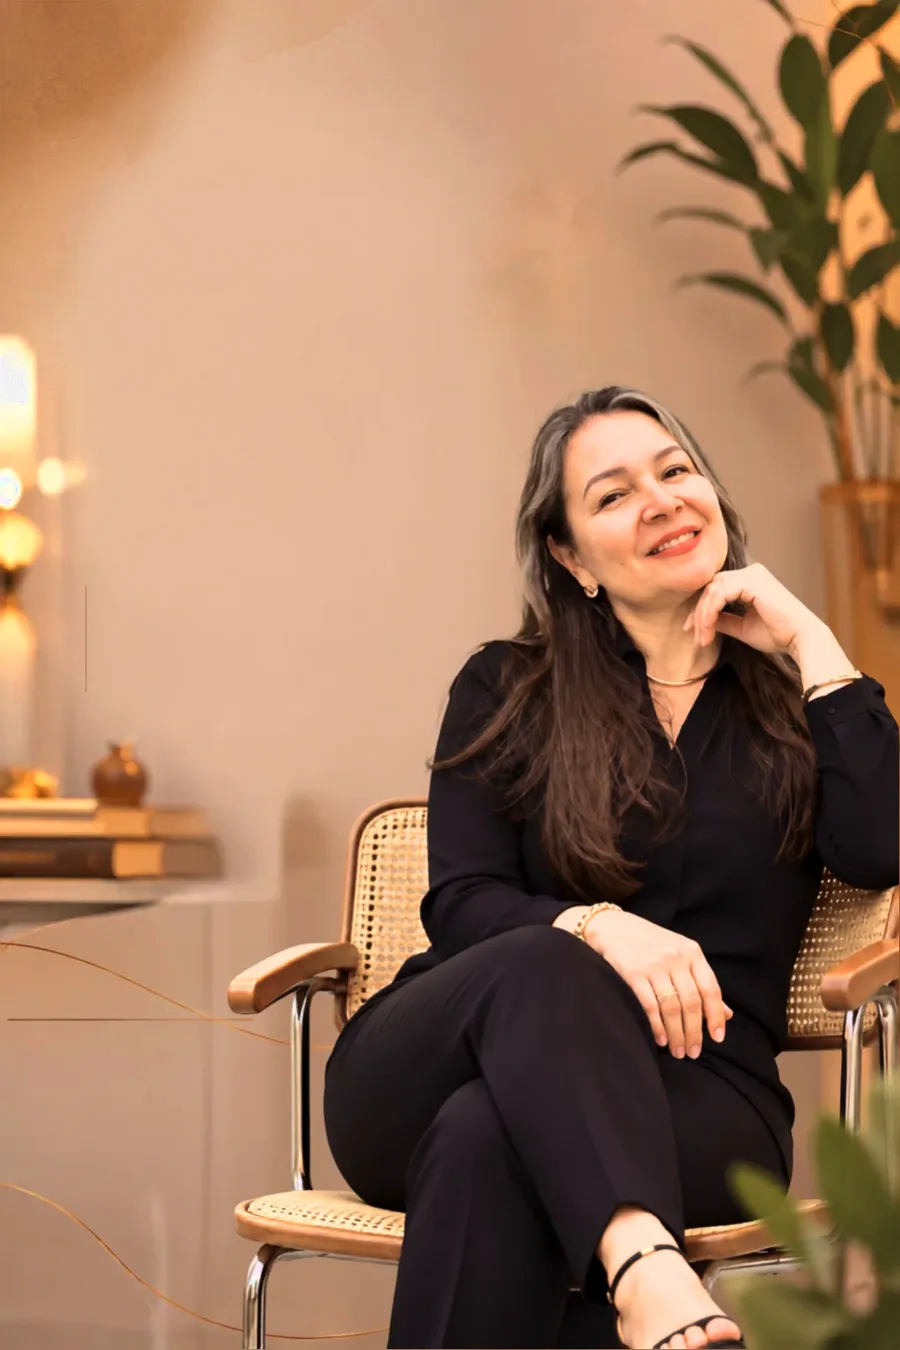
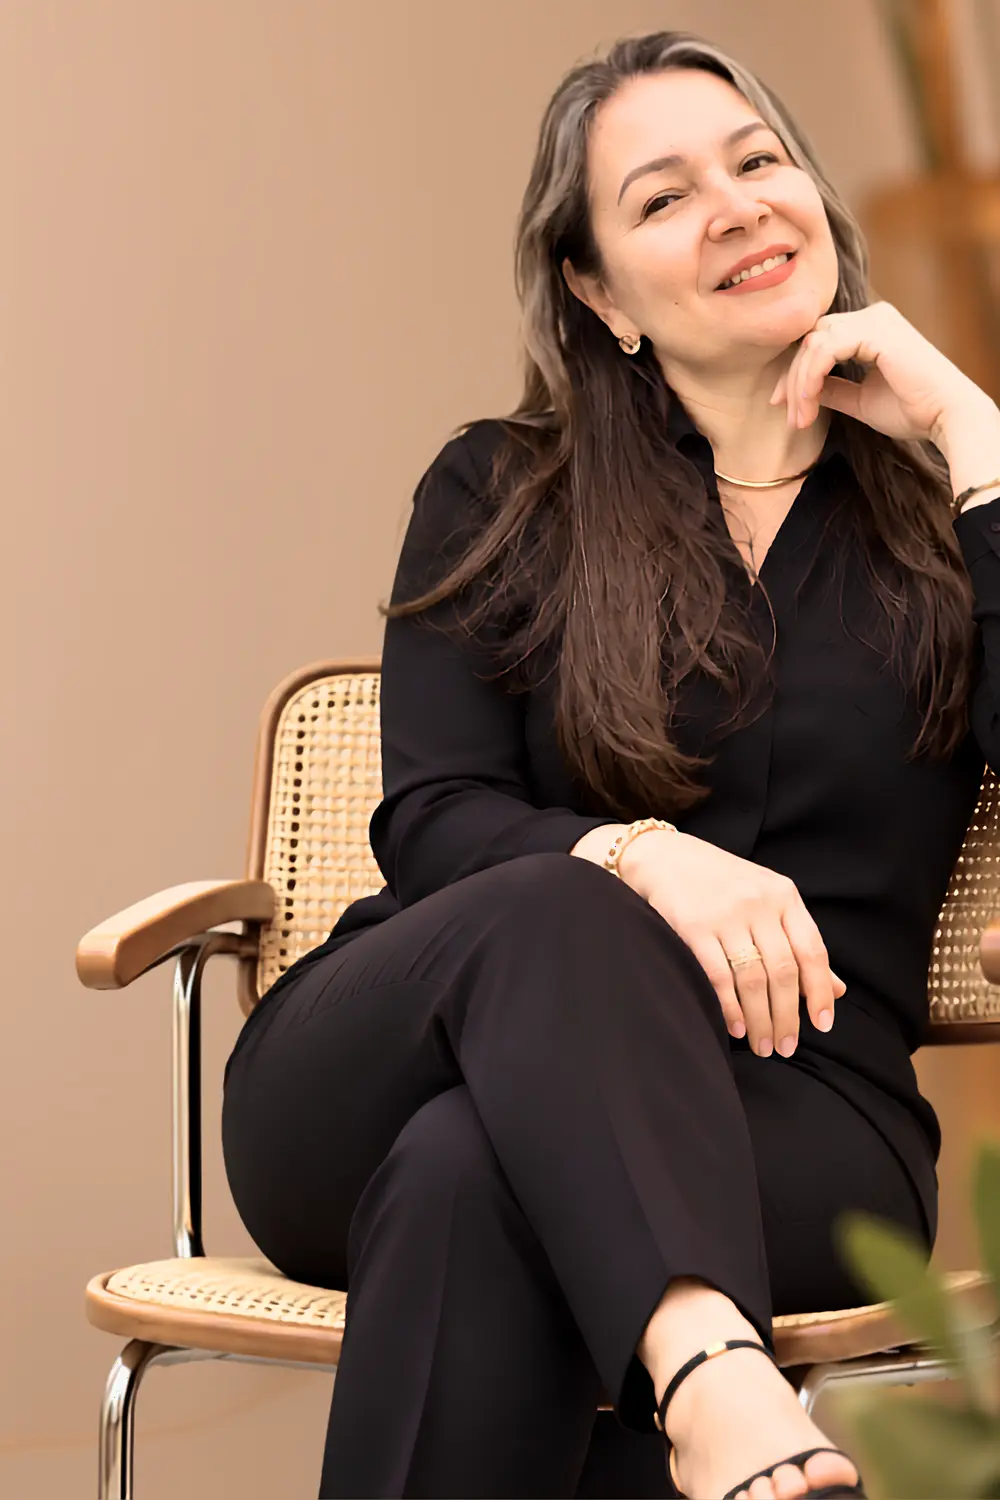
Retrato do celular vindo da origem em alta
A foto do heroi no celular ainda saia do quadro do video, em 1024x1536,
enquanto a do desktop ja vinha de 8000x4500. Dava para ver a diferenca.

Agora e recorte vertical da mesma origem grande, 3000x4500 direto do
arquivo de 8000px, com a mesma correcao de pele 97,116. Detalhe no rosto
subiu de 20.2 para 29.1, e o tom ficou em 0.738, colado no 0.737 do
desktop.

Tamanho escolhido medindo: 900px perde detalhe (22.8), 1200px nao
acrescenta (28.5) e pesa mais. Ficou 1000x1500 na q74, com 50832 bytes
contra os 47938 anteriores. Tres KB a mais por 44% mais detalhe.

O texto voltou para o pe
- No recorte novo a cabeca dela encosta no topo do quadro, e nao existe
  parede vazia acima em lugar nenhum da origem: nenhum recorte cria esse
  espaco. Texto no topo cairia sobre o rosto.
- O veu passou a subir do pe cobrindo a metade de baixo, que e colo e
  cadeira. Rosto e torso ficam limpos.
- Sobrou um fio de veu no topo, so para o cabecalho fixo nao brigar com
  o cabelo dela.

Primeira tentativa deixou o kicker em 1.28: ele caia a 53% do topo,
sobre o cabelo escuro, com o veu ainda em 0.53. A rampa subiu e ele
passou para 5.07.

Contraste final: kicker 5.07, titulo 11.62, subtitulo 11.95, nota 6.22.
Botao segue acima da dobra com 54px de folga.

diff --git a/assets/css/style.css b/assets/css/style.css
@@ -203,29 +203,30 @@ section{padding:76px 0;position:relative}
 .hero{position:relative;padding:0}
 /* --hdr e a altura real do cabecalho, medida pelo JS. O heroi ocupa
    exatamente o que sobra da tela, para o botao nunca cair abaixo da dobra. */
-/* O retrato foi composto com parede vazia em cima, que e onde o texto entra.
-   Duas camadas: uma desce do topo para segurar o titulo, outra sobe do pe
-   para segurar o botao. O rosto fica na faixa limpa entre as duas.
+/* O retrato novo saiu do recorte vertical da foto grande, e nele a cabeca
+   dela encosta no topo do quadro: nao existe parede vazia acima em lugar
+   nenhum da origem, entao nenhum recorte cria esse espaco. Por isso o texto
+   inteiro desce para o pe, e o veu sobe de baixo. So um fio de veu fica no
+   topo, para o cabecalho fixo nao brigar com o cabelo dela.
    object-position no eixo Y nao age aqui: escalada por altura, a imagem cabe
    exata no contentor e o unico corte que sobra e o horizontal. */
 .hero-static{position:relative;min-height:calc(100svh - var(--hdr,71px));
-             display:flex;flex-direction:column;justify-content:space-between;overflow:hidden}
+             display:flex;flex-direction:column;justify-content:flex-end;overflow:hidden}
 .hero-static__shot{position:absolute;inset:0;z-index:0}
 .hero-static__shot img{width:100%;height:100%;object-fit:cover;object-position:50% 0}
 .hero-static__veil{position:absolute;inset:0;z-index:1;pointer-events:none;
   background:
     linear-gradient(180deg,
-      rgba(244,238,227,.86) 0%,
-      rgba(244,238,227,.72) 14%,
-      rgba(244,238,227,.32) 24%,
-      rgba(244,238,227,0) 33%),
+      rgba(244,238,227,.42) 0%,
+      rgba(244,238,227,.12) 7%,
+      rgba(244,238,227,0) 14%),
     linear-gradient(0deg,
-      rgba(244,238,227,.98) 0%,
-      rgba(244,238,227,.95) 17%,
-      rgba(244,238,227,.80) 25%,
-      rgba(244,238,227,.30) 31%,
-      rgba(244,238,227,0) 38%)}
-.hero-static__top{position:relative;z-index:2;padding:16px 20px 0}
+      rgba(244,238,227,.99) 0%,
+      rgba(244,238,227,.985) 40%,
+      rgba(244,238,227,.95) 48%,
+      rgba(244,238,227,.60) 54%,
+      rgba(244,238,227,0) 64%)}
+.hero-static__top{position:relative;z-index:2;padding:0 20px 0}
 .hero-static h1{font-family:"Instrument Serif",Georgia,serif;font-weight:400;
                 font-size:clamp(36px,10.2vw,46px);line-height:1.06;margin-top:14px;
                 letter-spacing:-.012em;max-width:15ch}
